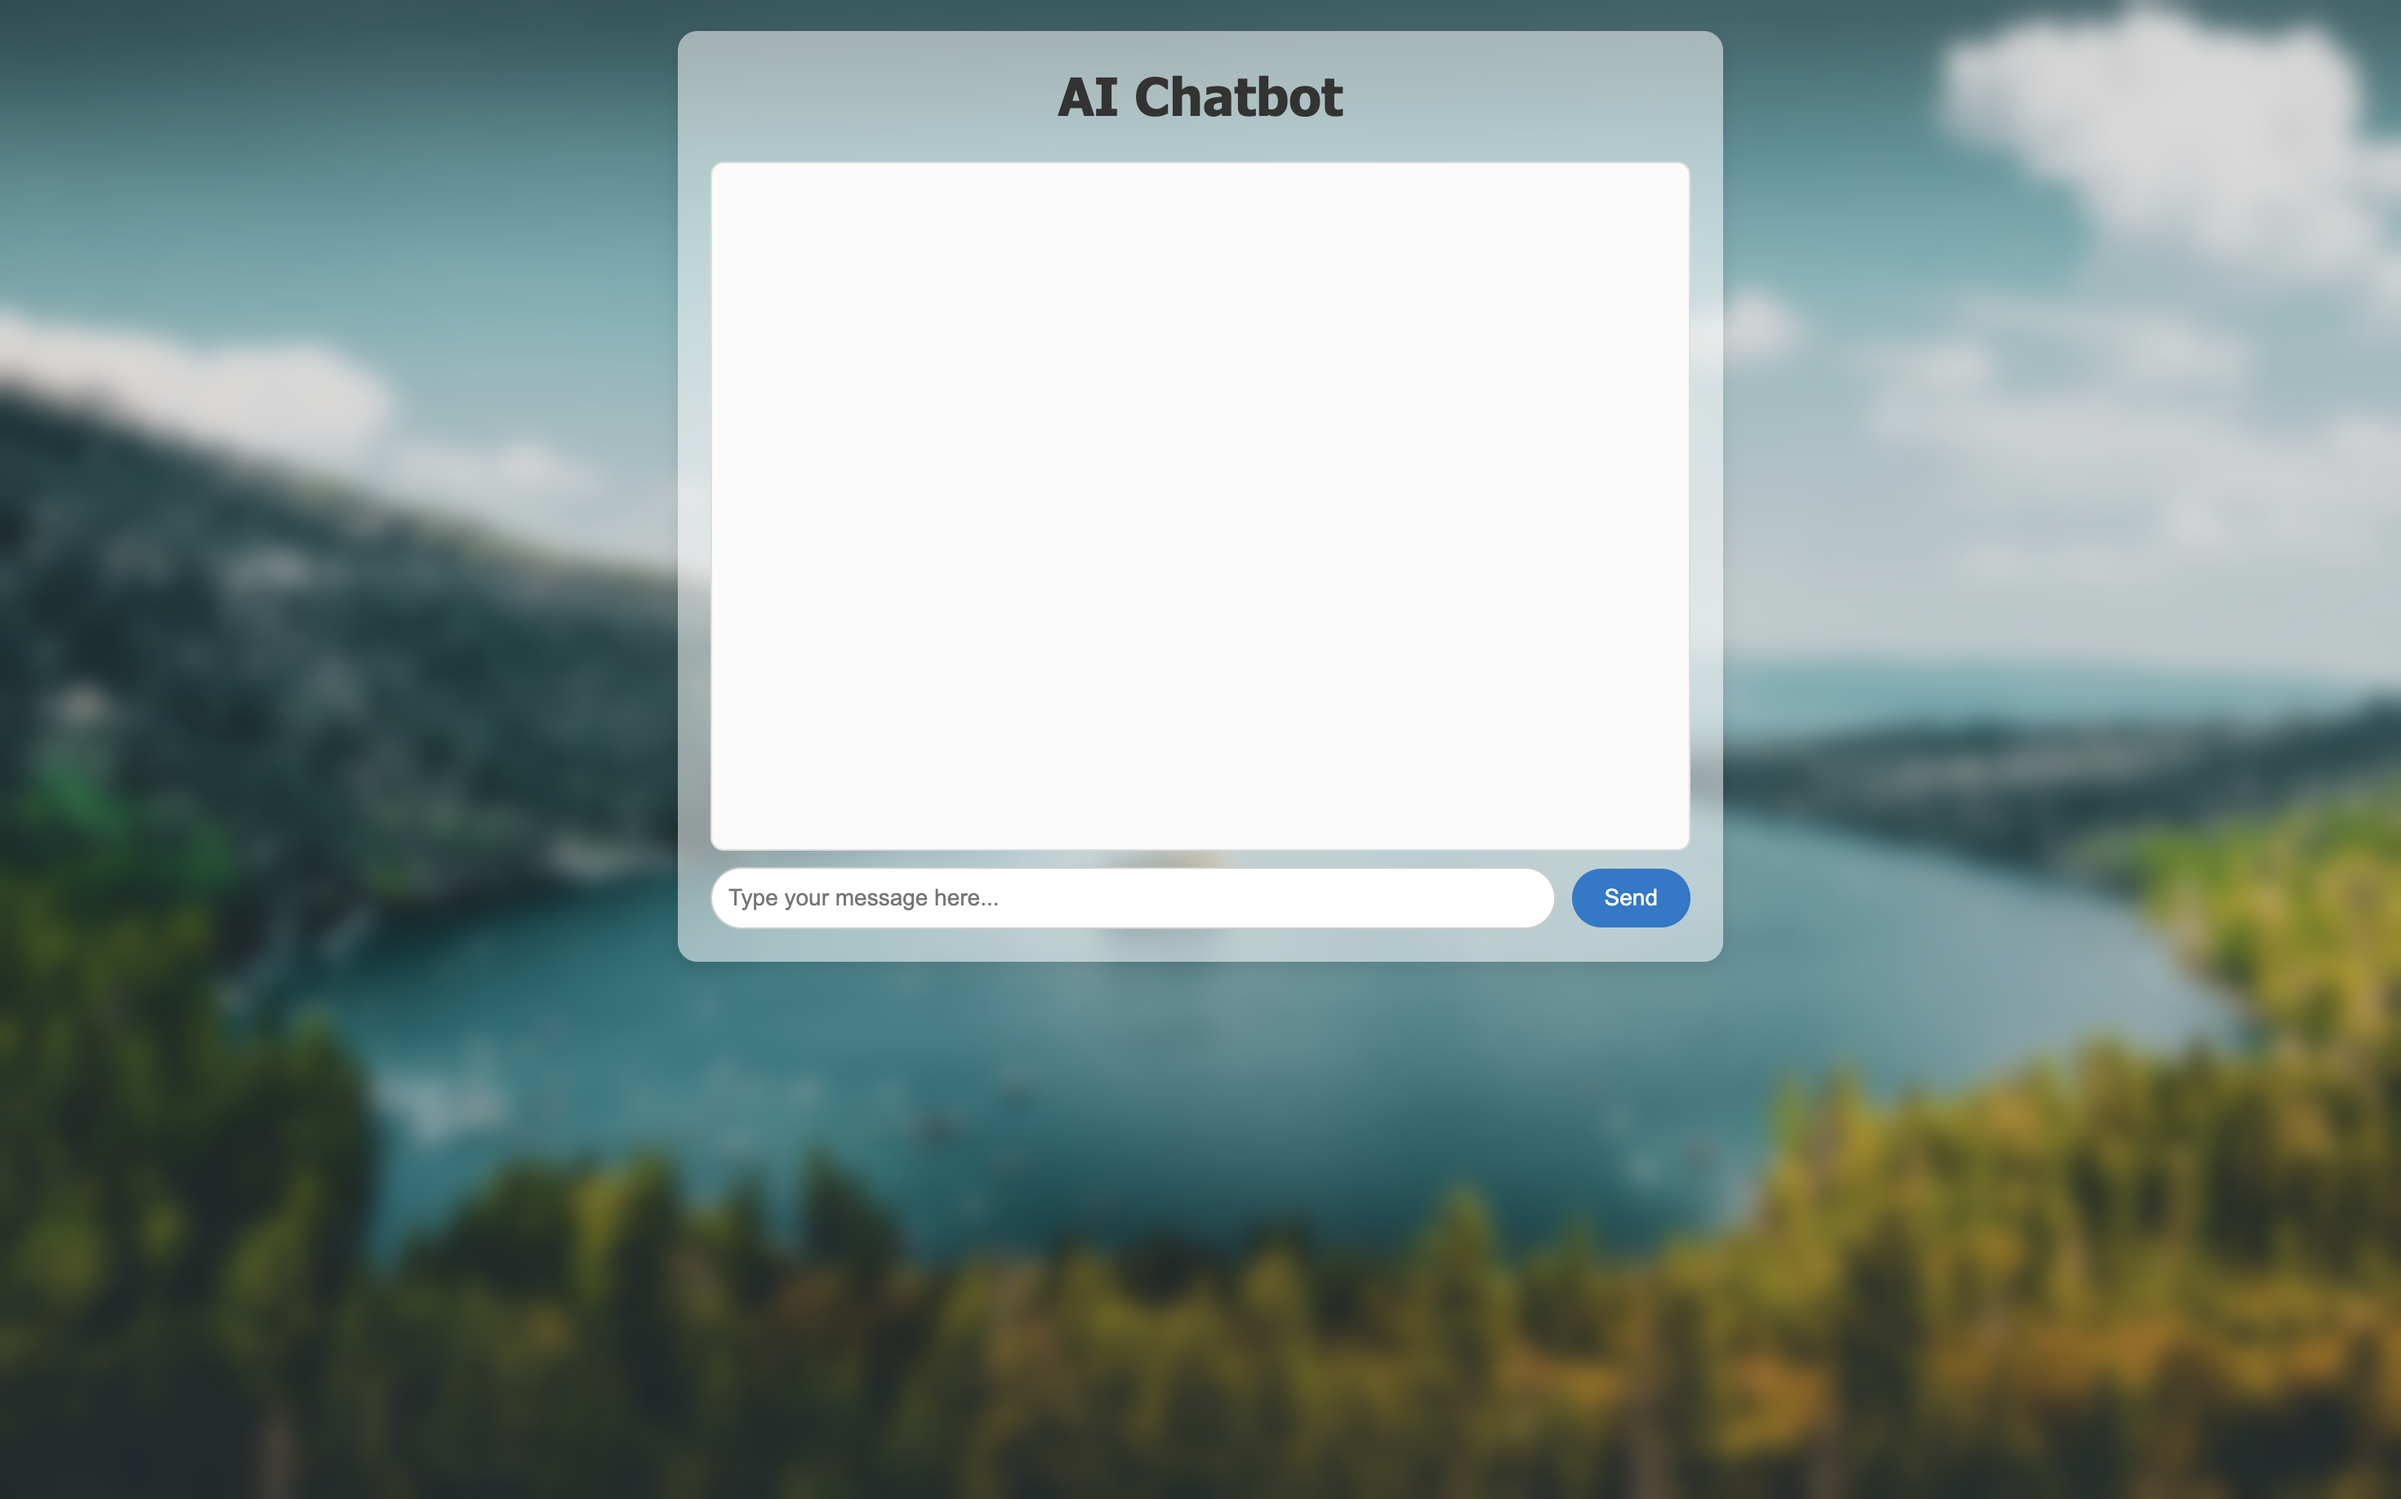
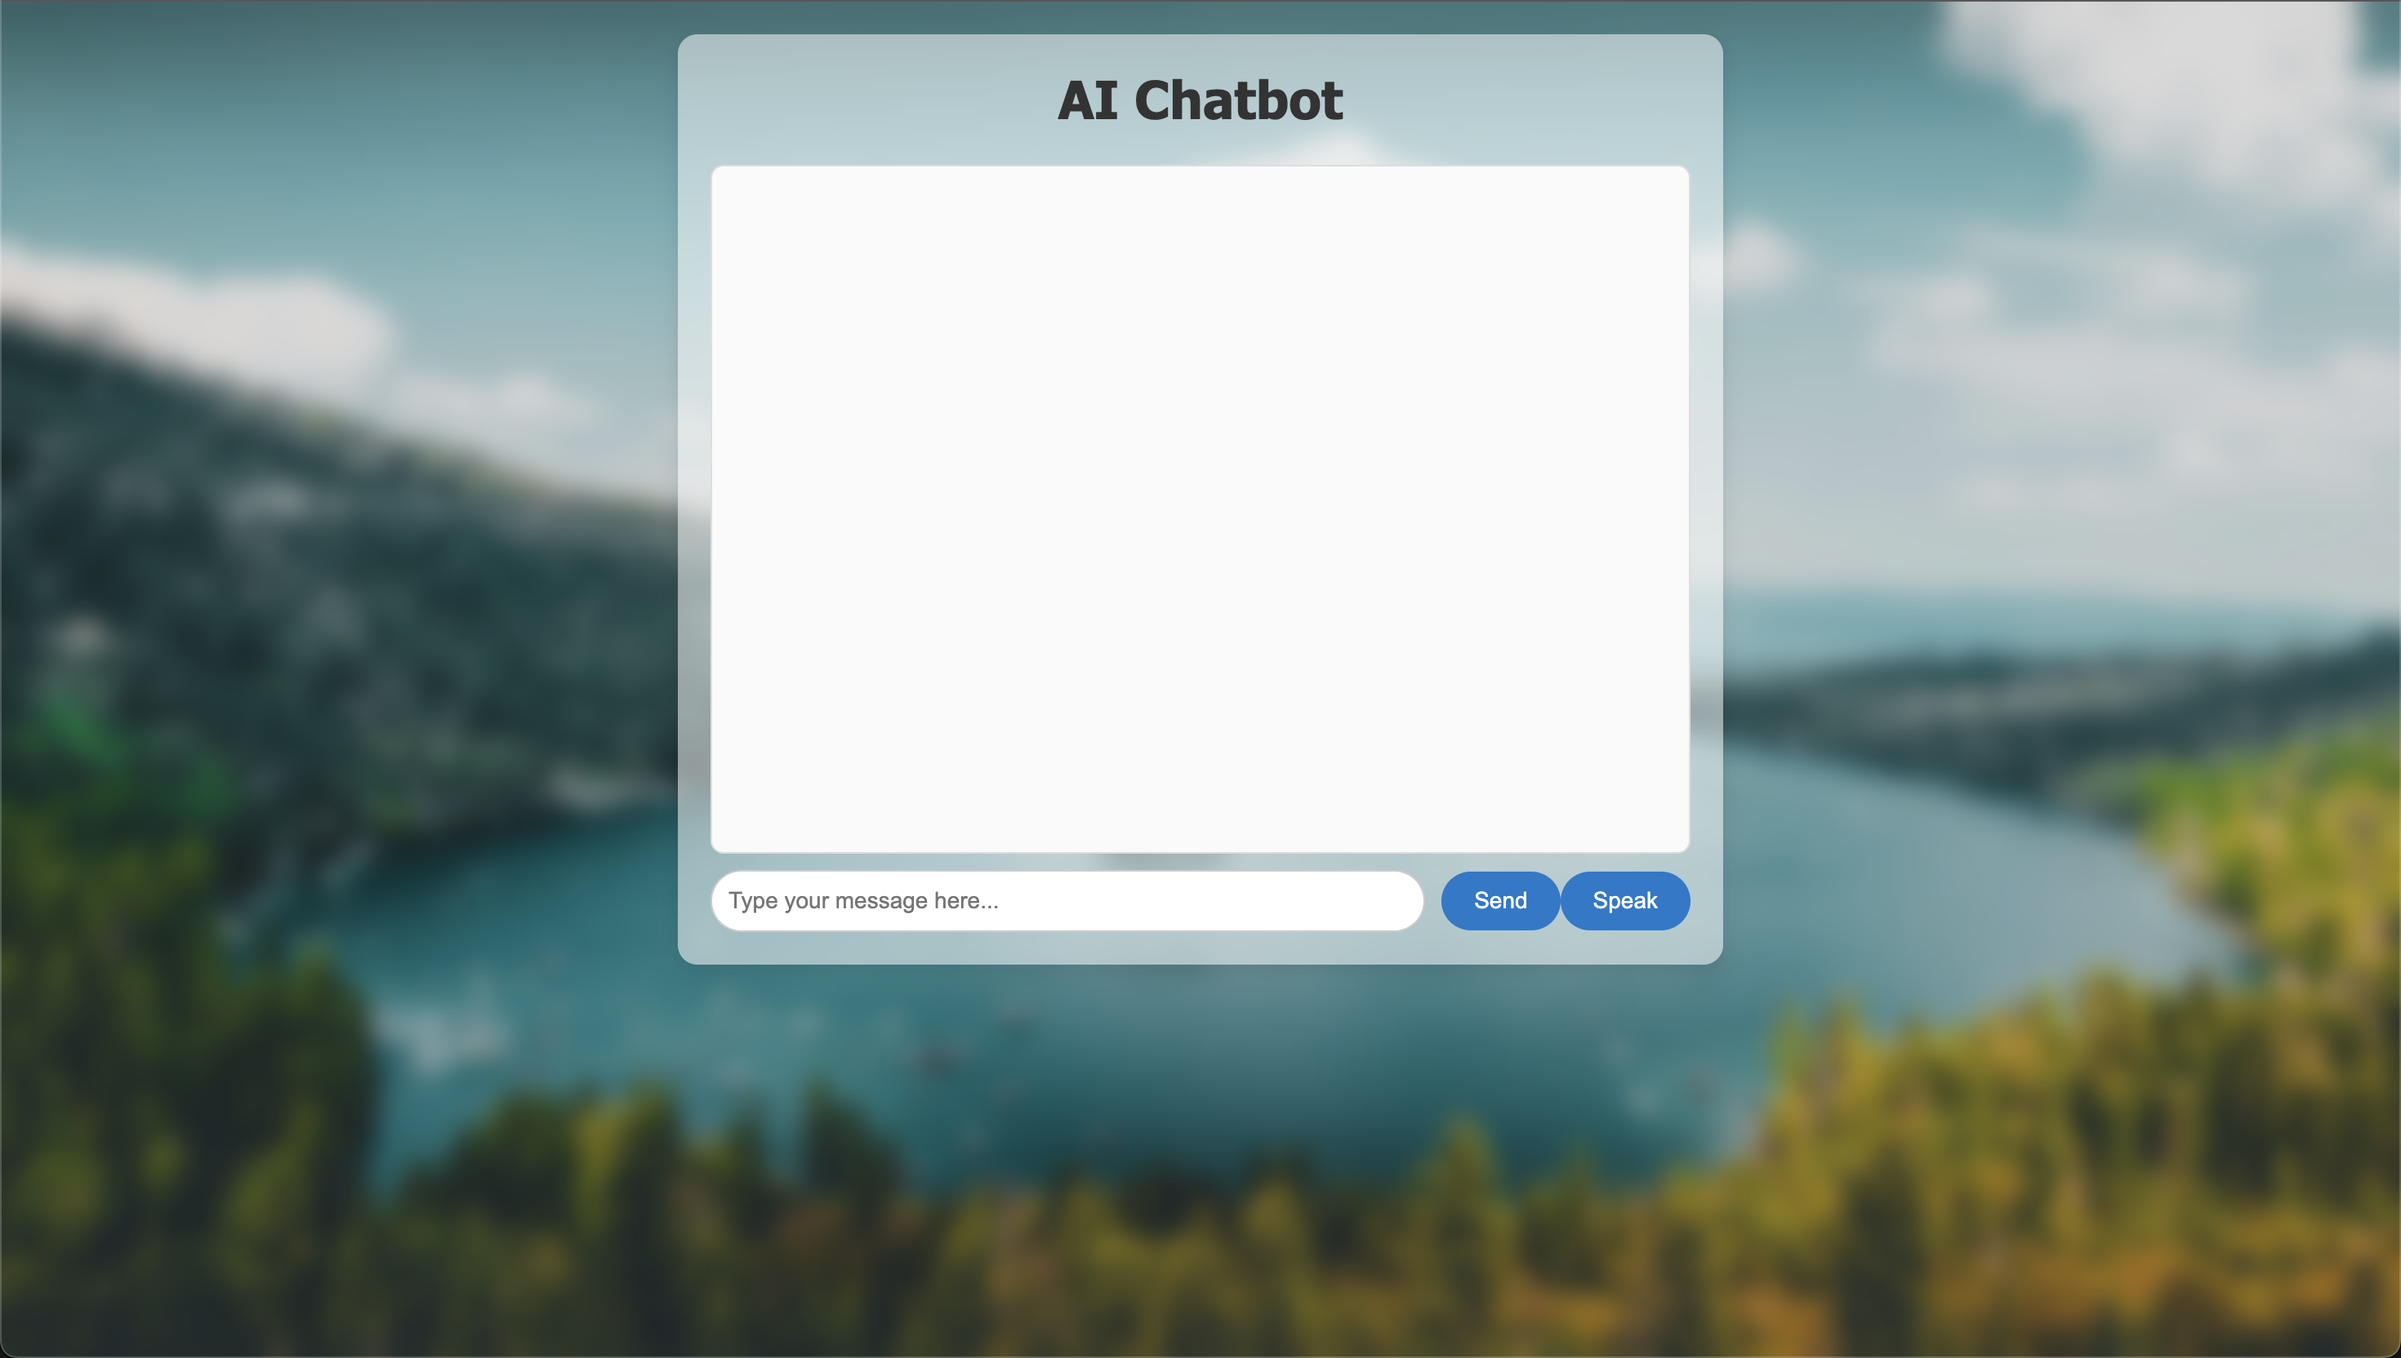
adding the speech to text option

diff --git a/static/script.js b/static/script.js
@@ -1,5 +1,39 @@
 const form = document.getElementById("chatForm");
-const submitButton = document.getElementById("submit");
+const submit_button = document.getElementById("submit");
+
+const voice_button = document.getElementById("voiceBtn");
+const user_input = document.getElementById("user_input");
+
+// Check browser support
+const SpeechRecognition = window.Speechecognition || window.webkitSpeechRecognition;
+
+if (SpeechRecognition) {
+    const recognition = new SpeechRecognition();
+    recognition.lang = "en-US"; 
+
+    voice_button.addEventListener("click", () => {
+        recognition.start();
+    });
+
+    recognition.onresult = function(event) {
+        const transcript = event.results[0][0].transcript;
+        user_input.value = transcript;
+    };
+
+    recognition.onerror = function(event) {
+        console.error("Speech recognition error:", event.error);
+    };
+} else {
+    voice_button.disabled = true;
+    alert("Speech recognition not supported in this browser.");
+}
+
+function speak(text) {
+    const utterance = new SpeechSynthesisUtterance(text);
+    utterance.lang = "en-US"; 
+    window.speechSynthesis.speak(utterance);
+}
+
 
 form.addEventListener("submit", async function(event) {
     event.preventDefault();
@@ -16,10 +50,14 @@ form.addEventListener("submit", async function(event) {
     chatbox.appendChild(loadingElement);
     chatbox.scrollTop = chatbox.scrollHeight;
 
-    // Disable the submit button and change color to gray
-    submitButton.disabled = true;
-    submitButton.style.backgroundColor = "#cccccc";
-    submitButton.style.cursor = "not-allowed";
+    // Disable the submit and voice button and change color to gray
+    submit_button.disabled = true;
+    submit_button.style.backgroundColor = "#cccccc";
+    submit_button.style.cursor = "not-allowed";
+
+    voice_button.disabled = true;
+    voice_button.style.backgroundColor = "#cccccc";
+    voice_button.style.cursor = "not-allowed";
 
     try {
         document.getElementById("user_input").value = "";
@@ -43,10 +81,14 @@ form.addEventListener("submit", async function(event) {
 
             if (i >= arData.length) {
                 clearInterval(st);
-                // Re-enable the submit button and restore its color
-                submitButton.disabled = false;
-                submitButton.style.backgroundColor = "#007acc";
-                submitButton.style.cursor = "pointer";
+                // Re-enable the submit and voice button and restore its color
+                submit_button.disabled = false;
+                submit_button.style.backgroundColor = "#007acc";
+                submit_button.style.cursor = "pointer";
+                
+                voice_button.disabled = false;
+                voice_button.style.backgroundColor = "#007acc";
+                voice_button.style.cursor = "pointer";
             }
         }
 
@@ -54,9 +96,9 @@ form.addEventListener("submit", async function(event) {
         loadingElement.className = "bot";
         loadingElement.innerHTML = `<b>AI:</b> Error: Could not fetch response.`;
         // Re-enable the submit button and restore its color even on error
-        submitButton.disabled = false;
-        submitButton.style.backgroundColor = "#007acc";
-        submitButton.style.cursor = "pointer";
+        submit_button.disabled = false;
+        submit_button.style.backgroundColor = "#007acc";
+        submit_button.style.cursor = "pointer";
     }
 
     chatbox.scrollTop = chatbox.scrollHeight;

diff --git a/static/index.html b/static/index.html
@@ -13,6 +13,7 @@
         <form id="chatForm">
             <input type="text" id="user_input" placeholder="Type your message here..." autocomplete="off">
             <button type="submit" id="submit">Send</button>
+            <button id="voiceBtn">Speak</button>
         </form>
     </div>
 

diff --git a/static/styles.css b/static/styles.css
@@ -96,7 +96,7 @@ button:hover {
     background-color: #005f8a;
 }
 
-/* Optional: nice scrollbar */
+
 #chatbox::-webkit-scrollbar {
     width: 8px;
 }
